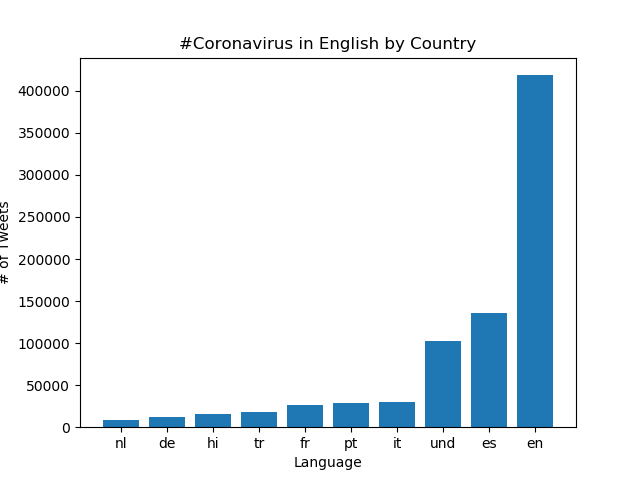
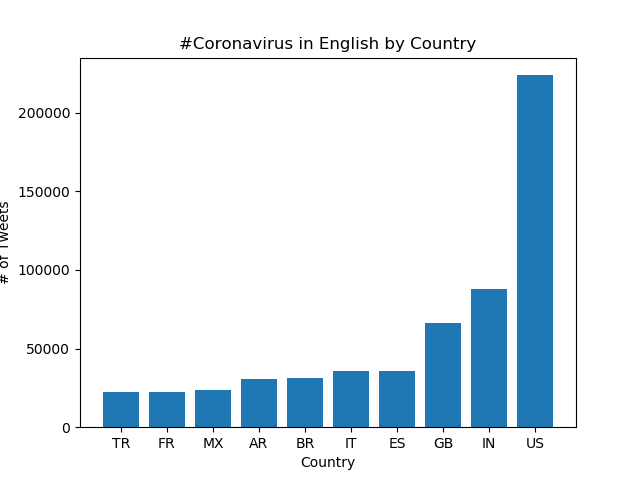
hw

diff --git a/README.md b/README.md
@@ -1,15 +1,15 @@
 # Coronavirus twitter analysis
 
-##Aim of Project
+## Project Overview
 
 The aim of this project is to summarize tweets that mentioned coronavirus in various languages and other related words in the year 2020. The dataset used for my analysis comes from the lambda server’s /data/Twitter dataset folder and contains roughly 1.1 billion tweets. One interesting quality of this data set is that some of the tweets are geotagged, meaning they contain the location information from where the tweet was sent. My analysis incorporates this geotagged location to grasp where these tweets are sent from. Furthermore, my analysis looks at tweets in other languages, including Korean, Japanese, and Chinese. 
 
-##Background
+## Background
 
 **Process**
 This project required using shell scripts, navigating the lambda server, as well as learning and implementing libraries for visualizing data. To parse through all 1.1 billion tweets, I followed the MapReduce procedure and uses parallel processing. To parse through all of the files in the dataset, I used my map.py file, which kept track of the hashtags as well as the language and country code for each file. To put all of this information into two simplified files (one file for the languages and the other for the country code), my reduce.py file merged all of the outputs into a dictionary. I could then use these two files to graph and visualize the output. The shell script can be found in my run_maps.sh file. 
 
-##Findings
+## Findings
 
 I have included 4 graphs to show my findings from the project. The first image shows the top ten languages #coronavirus was mentioned, and my second image shows the top 10 languages #코로나바이러스 (this is #coronavirus in Korean) was mentioned. My graphs show that English and Spanish were the top 2 countries for #coronavirus being tweeted, and Korean was by far the top language #코로나바이러스 was tweeted in. My third and fourth images show the top ten countries #coronavirus and #코로나바이러스 were mentioned in. #coronavirus was mentioned most in the United States, India, and Great Britain. #코로나바이러스 was tweeted the most by South Korea. 
 
@@ -21,8 +21,20 @@ To look at tweets over the course of 2020, I used my alternative_reduce file. Th
 
 <img src=figure1.png width=400px/>
 
+**Figure 2:# 코로나바이러스(Coronavirus in Korean) by Language**
 
-##Conclusion
+<img src=figure2.png width=400px/>
+
+
+**Figure 3: #Coronavirus in English by Country**
+
+<img src=figure3.png width=400px/>
+
+**Figure 4:# 코로나바이러스(Coronavirus in Korean) by Country**
+
+<img src=figure4.png width=400px/>
+
+## Conclusion
 
 
 Overall, this project utilized the power of glob to go through hundreds of files, as well as tools to run programs in the background (even when I am not on my computer). I learned how to utilize the matplotlib library and manipulate inputs and datasets to better understand data. Surprisingly, the biggest challenge I faced in this project was manipulating my graphs. Before completing this project, I imagined that going through all 1.1 billion tweets would be the most difficult part! Going forward, I hope to learn more about visualization methods and how to show data in new, unique forms. 
